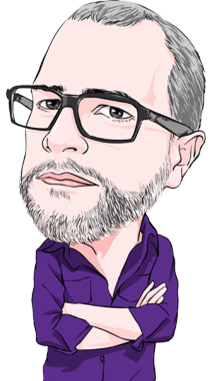
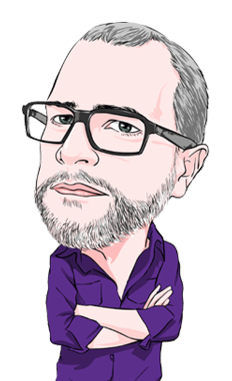
Unify all images size

diff --git a/source/assets/stylesheets/styles/_project_team.scss b/source/assets/stylesheets/styles/_project_team.scss
@@ -57,5 +57,6 @@
 
 .project-team__headshot {
   display: block;
-  width: 100%;
+  width: 100% auto;
+  max-height: 377px; // there is a problem with some images, it's used to unify them all
 }
